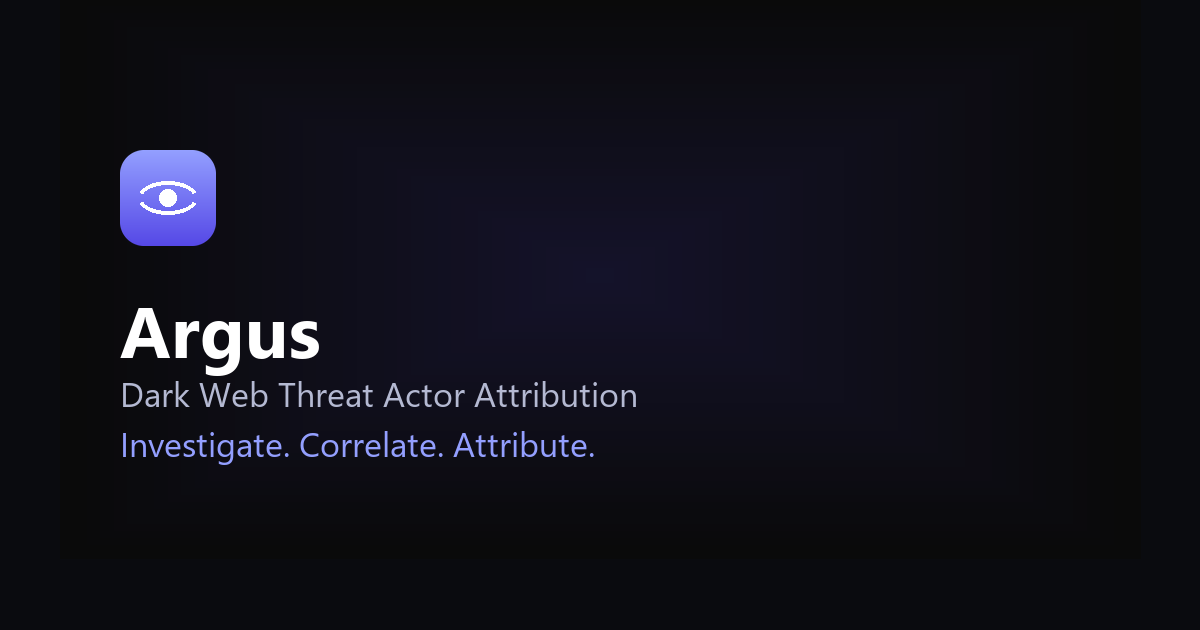
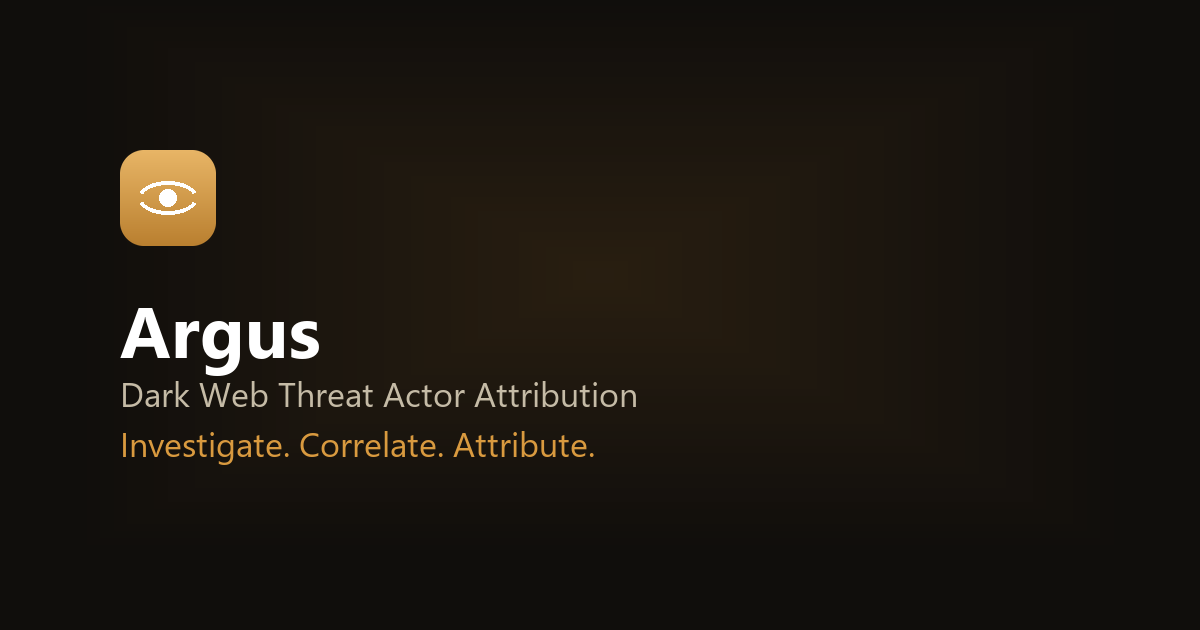
Redesign UI to the "Case File" visual identity
Replaces the generic indigo-on-navy look (the single most common
AI-dashboard default) with a distinctive warm-ink + amber "intelligence
dossier" identity, chosen from 4 concepts presented and discussed with the
team (see the Argus Style Concepts artifact from that conversation).

Implemented entirely through the existing design-token system in
index.css -- every component (cards, buttons, badges, tables, sidebar,
stat tiles, the relationship graph, the auth screen) already read colors
from CSS custom properties, so this is a token-level change with no
markup/component changes required:

- Palette: warm ink black (#100e0c) replacing blue-black, amber (#d99a3f)
  replacing indigo as the brand/confidence-medium/accent color, warm-toned
  confidence tiers (sage high / amber medium / warm-gray low) and
  identifier-type colors (amber handle / copper wallet / sage PGP key /
  red infrastructure).
- Type: Fraunces (serif, optical-size variable) for all headings, Work
  Sans replacing Inter for body text, JetBrains Mono unchanged for data/
  mono content.
- Scale: smaller/squarer border radii (6/9/13px vs 8/12/18px) -- reads
  closer to an index card than a rounded-corner phone app.
- Regenerated favicon.svg/favicon-32.png/apple-touch-icon.png/og-image.png
  with the new amber gradient so the brand mark is consistent everywhere,
  not just in-app.

Live-verified against the real production API (registered a test account,
[…]

diff --git a/frontend/src/index.css b/frontend/src/index.css
@@ -1,62 +1,67 @@
 :root {
   color-scheme: dark;
 
-  /* Layered surfaces — depth via elevation, not just borders */
-  --bg: #0a0b0f;
-  --bg-gradient: radial-gradient(ellipse 80% 60% at 50% -10%, rgba(99, 102, 241, 0.12), transparent);
-  --surface-1: #12131a;
-  --surface-2: #191b24;
-  --surface-3: #21232f;
-  --border: #24262f;
-  --border-hover: #3d4155;
+  /* Layered surfaces — depth via elevation, not just borders.
+     "Case File" palette: warm ink black (not blue-black), amber evidence-tag
+     accent — a deliberate departure from the generic indigo-on-navy look
+     most AI-built dashboards default to. See the Argus Style Concepts
+     artifact for the full rationale/comparison against 3 alternatives. */
+  --bg: #100e0c;
+  --bg-gradient: radial-gradient(ellipse 80% 60% at 50% -10%, rgba(217, 154, 63, 0.09), transparent);
+  --surface-1: #1a1613;
+  --surface-2: #221c17;
+  --surface-3: #2b241b;
+  --border: #2e2820;
+  --border-hover: #4a3f2c;
 
-  /* Text */
-  --text: #f0f1f6;
-  --text-secondary: #a4a8b8;
-  --text-muted: #686d7e;
+  /* Text — warm off-white/ink, not cool gray */
+  --text: #ede7dc;
+  --text-secondary: #b3a893;
+  --text-muted: #7d735d;
 
-  /* Brand */
-  --accent: #7b8cff;
-  --accent-strong: #5f6fe6;
-  --accent-hover: #939fff;
-  --accent-muted: rgba(123, 140, 255, 0.13);
-  --accent-border: rgba(123, 140, 255, 0.35);
+  /* Brand — amber, the "evidence tag" color */
+  --accent: #d99a3f;
+  --accent-strong: #b97f2f;
+  --accent-hover: #e8b566;
+  --accent-muted: rgba(217, 154, 63, 0.14);
+  --accent-border: rgba(217, 154, 63, 0.38);
 
   /* Semantic */
-  --danger: #f87171;
-  --danger-muted: rgba(248, 113, 113, 0.12);
-  --danger-border: rgba(248, 113, 113, 0.3);
+  --danger: #c1503f;
+  --danger-muted: rgba(193, 80, 63, 0.13);
+  --danger-border: rgba(193, 80, 63, 0.32);
 
   /* Confidence tiers */
-  --high: #4ade80;
-  --high-muted: rgba(74, 222, 128, 0.13);
-  --high-border: rgba(74, 222, 128, 0.3);
-  --medium: #fbbf5a;
-  --medium-muted: rgba(251, 191, 90, 0.13);
-  --medium-border: rgba(251, 191, 90, 0.3);
-  --low: #8b90a0;
-  --low-muted: rgba(139, 144, 160, 0.12);
-  --low-border: rgba(139, 144, 160, 0.25);
+  --high: #8fae6d;
+  --high-muted: rgba(143, 174, 109, 0.14);
+  --high-border: rgba(143, 174, 109, 0.32);
+  --medium: #d9a34d;
+  --medium-muted: rgba(217, 163, 77, 0.14);
+  --medium-border: rgba(217, 163, 77, 0.32);
+  --low: #8a8065;
+  --low-muted: rgba(138, 128, 101, 0.13);
+  --low-border: rgba(138, 128, 101, 0.28);
 
   /* Identifier-type accents (used in graph + tables) */
-  --type-username: #7b8cff;
-  --type-wallet: #fbbf5a;
-  --type-pgp_key: #4ade80;
-  --type-onion_address: #f87171;
+  --type-username: #d99a3f;
+  --type-wallet: #c17a4a;
+  --type-pgp_key: #8fae6d;
+  --type-onion_address: #c1503f;
 
   /* Elevation */
-  --shadow-sm: 0 1px 2px rgba(0, 0, 0, 0.4), 0 1px 1px rgba(0, 0, 0, 0.24);
-  --shadow-md: 0 6px 16px -4px rgba(0, 0, 0, 0.45), 0 2px 6px rgba(0, 0, 0, 0.3);
-  --shadow-lg: 0 20px 48px -12px rgba(0, 0, 0, 0.6), 0 4px 12px rgba(0, 0, 0, 0.35);
-  --shadow-glow: 0 0 0 1px var(--accent-border), 0 8px 24px -8px rgba(123, 140, 255, 0.35);
+  --shadow-sm: 0 1px 2px rgba(0, 0, 0, 0.5), 0 1px 1px rgba(0, 0, 0, 0.3);
+  --shadow-md: 0 6px 16px -4px rgba(0, 0, 0, 0.55), 0 2px 6px rgba(0, 0, 0, 0.35);
+  --shadow-lg: 0 20px 48px -12px rgba(0, 0, 0, 0.7), 0 4px 12px rgba(0, 0, 0, 0.4);
+  --shadow-glow: 0 0 0 1px var(--accent-border), 0 8px 24px -8px rgba(217, 154, 63, 0.35);
 
-  /* Scale */
-  --radius-sm: 8px;
-  --radius-md: 12px;
-  --radius-lg: 18px;
+  /* Scale — smaller, squarer radii than a typical rounded-lg SaaS
+     dashboard; reads closer to an index card than a phone app. */
+  --radius-sm: 6px;
+  --radius-md: 9px;
+  --radius-lg: 13px;
   --radius-pill: 999px;
 
-  font-family: "Inter", -apple-system, BlinkMacSystemFont, "Segoe UI", Roboto, sans-serif;
+  font-family: "Work Sans", -apple-system, BlinkMacSystemFont, "Segoe UI", Roboto, sans-serif;
   font-feature-settings: "cv11", "ss01";
   -webkit-font-smoothing: antialiased;
 }
@@ -76,14 +81,16 @@ body {
   background: var(--bg-gradient), var(--bg);
   background-attachment: fixed;
   color: var(--text);
-  letter-spacing: -0.011em;
+  letter-spacing: 0;
 }
 
 h1,
 h2,
 h3 {
-  font-weight: 700;
-  letter-spacing: -0.02em;
+  font-family: "Fraunces", Georgia, "Times New Roman", serif;
+  font-optical-sizing: auto;
+  font-weight: 600;
+  letter-spacing: -0.005em;
   margin: 0;
 }
 
@@ -121,7 +128,7 @@ header {
   align-items: center;
   padding: 1.1rem 1.5rem;
   margin: 0 -1.5rem 2rem;
-  background: rgba(10, 11, 15, 0.75);
+  background: rgba(16, 14, 12, 0.75);
   backdrop-filter: blur(14px);
   -webkit-backdrop-filter: blur(14px);
   border-bottom: 1px solid var(--border);
@@ -435,7 +442,7 @@ header {
   width: 34px;
   height: 34px;
   border-radius: 10px;
-  background: linear-gradient(135deg, var(--accent), #5548e6);
+  background: linear-gradient(135deg, var(--accent-hover), var(--accent-strong));
   display: flex;
   align-items: center;
   justify-content: center;
@@ -485,7 +492,7 @@ button {
 button.btn-primary,
 button:not([class*="btn-"]):not(.link-button):not(.sidebar-item) {
   background: linear-gradient(180deg, var(--accent-hover), var(--accent-strong));
-  color: #0a0b14;
+  color: #100e0c;
   box-shadow: var(--shadow-sm), inset 0 1px 0 rgba(255, 255, 255, 0.25);
 }
 
@@ -1144,7 +1151,7 @@ select:focus-visible {
   display: flex;
   align-items: center;
   padding: 4rem;
-  background: radial-gradient(ellipse 70% 60% at 20% 10%, rgba(99, 102, 241, 0.14), transparent),
+  background: radial-gradient(ellipse 70% 60% at 20% 10%, rgba(217, 154, 63, 0.14), transparent),
     var(--surface-1);
   border-right: 1px solid var(--border);
 }
@@ -1225,7 +1232,7 @@ select:focus-visible {
   align-items: flex-start;
   gap: 0.85rem;
   padding: 0.8rem 0.95rem;
-  background: rgba(18, 19, 26, 0.55);
+  background: rgba(26, 22, 19, 0.55);
   border: 1px solid var(--border);
   border-radius: var(--radius-md);
   backdrop-filter: blur(6px);

diff --git a/frontend/index.html b/frontend/index.html
@@ -14,7 +14,7 @@
          out of search indexes (see /robots.txt) rather than optimized for
          crawling. -->
     <meta name="robots" content="noindex, nofollow" />
-    <meta name="theme-color" content="#0a0b0f" />
+    <meta name="theme-color" content="#100e0c" />
 
     <link rel="icon" type="image/svg+xml" href="/favicon.svg" />
     <link rel="icon" type="image/png" sizes="32x32" href="/favicon-32.png" />
@@ -40,7 +40,7 @@
     <link rel="preconnect" href="https://fonts.googleapis.com" />
     <link rel="preconnect" href="https://fonts.gstatic.com" crossorigin />
     <link
-      href="https://fonts.googleapis.com/css2?family=Inter:wght@400;500;600;700;800&family=JetBrains+Mono:wght@400;500&display=swap"
+      href="https://fonts.googleapis.com/css2?family=Fraunces:opsz,wght@9..144,500;9..144,600;9..144,700&family=Work+Sans:wght@400;500;600;700;800&family=JetBrains+Mono:wght@400;500&display=swap"
       rel="stylesheet"
     />
 
